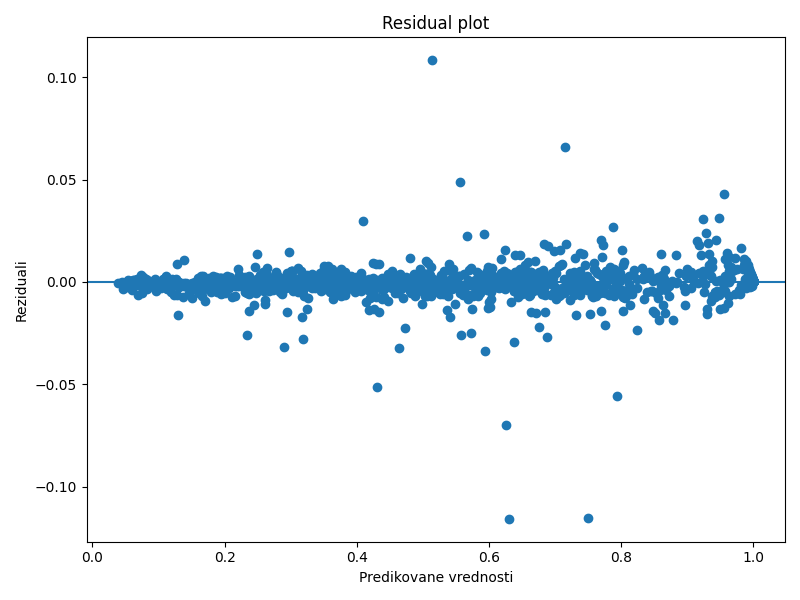
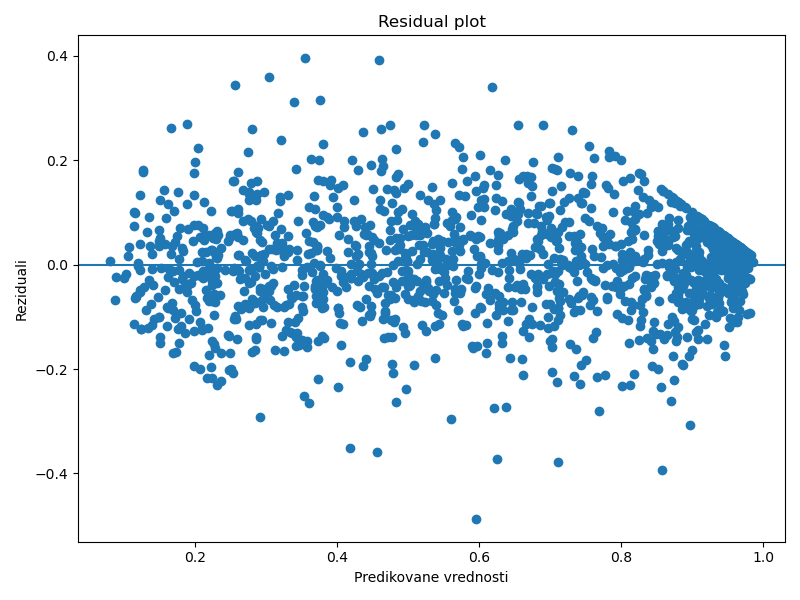
Improve hawk-dove simulation realism

diff --git a/src/main.py b/src/main.py
@@ -7,17 +7,36 @@ RAW_DATA_PATH = Path("data/raw/hawk_dove_dataset.csv")
 RANDOM_SEED = 42
 
 
-def simulate_hawk_dove(V, C, x0, iterations, learning_rate=0.1):
+def simulate_hawk_dove(
+    V,
+    C,
+    x0,
+    iterations,
+    population_size,
+    rng,
+    learning_rate,
+    mutation_rate,
+    environment_volatility,
+    noise_std=0.05,
+):
     x = x0
 
     for _ in range(iterations):
-        hawk_fitness = x * ((V - C) / 2) + (1 - x) * V
-        dove_fitness = (1 - x) * (V / 2)
+        current_V = max(0.1, rng.normal(V, environment_volatility * V))
+        current_C = max(0.1, rng.normal(C, environment_volatility * C))
+
+        hawk_fitness = x * ((current_V - current_C) / 2) + (1 - x) * current_V
+        dove_fitness = (1 - x) * (current_V / 2)
 
         average_fitness = x * hawk_fitness + (1 - x) * dove_fitness
 
-        x = x + learning_rate * x * (hawk_fitness - average_fitness)
+        noise = rng.normal(0, noise_std)
+        x = x + learning_rate * x * (hawk_fitness - average_fitness) + noise
+        x = x + mutation_rate * (1 - 2 * x)
         x = max(0, min(1, x))
+
+        hawk_count = rng.binomial(population_size, x)
+        x = hawk_count / population_size
 
     return x
 
@@ -32,18 +51,41 @@ def generate_dataset(num_samples, random_seed=RANDOM_SEED):
         initial_hawk = rng.uniform(0, 1)
         iterations = rng.integers(50, 200)
         population_size = rng.integers(100, 1000)
-        final_hawk = simulate_hawk_dove(V, C, initial_hawk, iterations)
+        learning_rate = rng.uniform(0.03, 0.15)
+        mutation_rate = rng.uniform(0.001, 0.03)
+        environment_volatility = rng.uniform(0.01, 0.12)
+        theoretical_hawk = min(1, V / C)
+        final_hawk = simulate_hawk_dove(
+            V,
+            C,
+            initial_hawk,
+            iterations,
+            population_size,
+            rng,
+            learning_rate,
+            mutation_rate,
+            environment_volatility,
+        )
         final_dove = 1 - final_hawk
 
         data.append({
             "V": V,
             "C": C,
+            "cost_value_ratio": C / V,
+            "value_cost_ratio": V / C,
+            "conflict_severity": C - V,
+            "theoretical_hawk": theoretical_hawk,
             "initial_hawk": initial_hawk,
             "initial_dove": 1 - initial_hawk,
             "iterations": iterations,
+            "learning_rate": learning_rate,
+            "mutation_rate": mutation_rate,
+            "environment_volatility": environment_volatility,
             "final_hawk": final_hawk,
             "final_dove": final_dove,
-            "population_size": population_size
+            "hawk_dominant": int(final_hawk > 0.5),
+            "dominant_strategy": "hawk" if final_hawk > 0.5 else "dove",
+            "population_size": population_size,
         })
 
     return pd.DataFrame(data)

diff --git a/src/train.py b/src/train.py
@@ -5,7 +5,12 @@ from pathlib import Path
 
 from sklearn.linear_model import LinearRegression, Ridge, Lasso
 from sklearn.neighbors import KNeighborsRegressor
-from sklearn.ensemble import RandomForestRegressor
+from sklearn.ensemble import (
+    ExtraTreesRegressor,
+    GradientBoostingRegressor,
+    HistGradientBoostingRegressor,
+    RandomForestRegressor,
+)
 
 from sklearn.model_selection import KFold, cross_val_score
 from sklearn.metrics import (
@@ -43,6 +48,16 @@ def build_models():
         "KNN Regression": KNeighborsRegressor(n_neighbors=5),
         "Random Forest Regression": RandomForestRegressor(
             n_estimators=100,
+            random_state=RANDOM_SEED,
+        ),
+        "Extra Trees Regression": ExtraTreesRegressor(
+            n_estimators=100,
+            random_state=RANDOM_SEED,
+        ),
+        "Gradient Boosting Regression": GradientBoostingRegressor(
+            random_state=RANDOM_SEED,
+        ),
+        "Hist Gradient Boosting Regression": HistGradientBoostingRegressor(
             random_state=RANDOM_SEED,
         ),
     }

diff --git a/src/preprocess.py b/src/preprocess.py
@@ -17,6 +17,9 @@ FEATURE_COLUMNS = [
     "initial_hawk",
     "initial_dove",
     "iterations",
+    "learning_rate",
+    "mutation_rate",
+    "environment_volatility",
     "population_size",
 ]
 TARGET_COLUMN = "final_hawk"